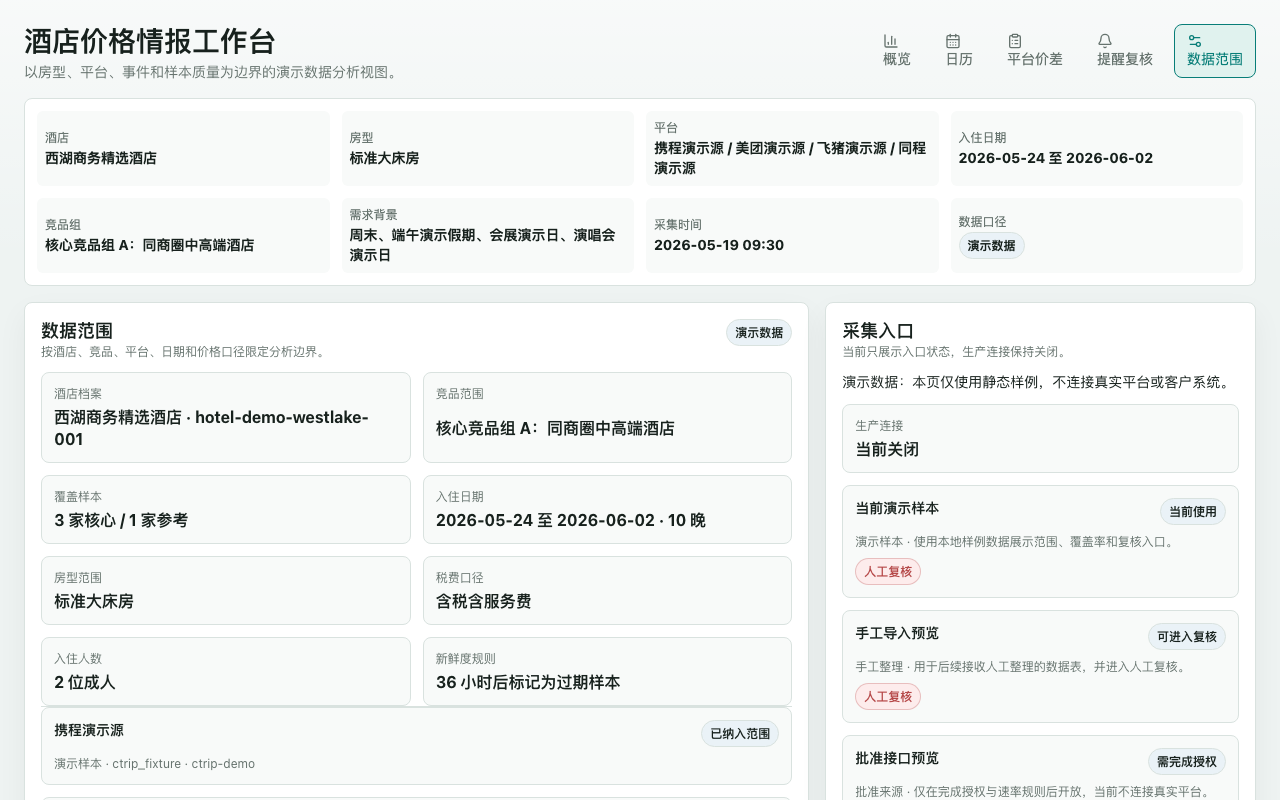
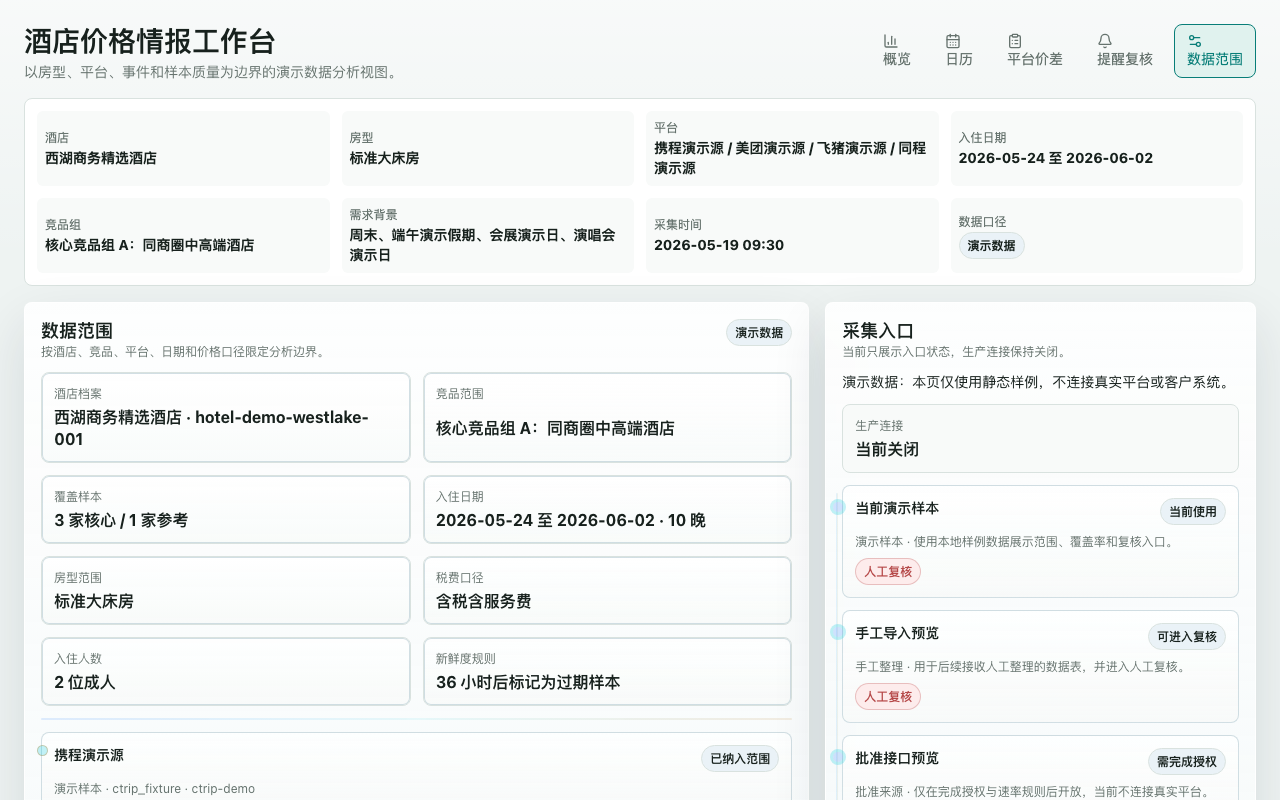
feat: apply revenue observatory setup styling

Changed region(s): [[0.0312, 0.875, 0.6562, 1.0], [0.625, 0.7812, 0.6562, 0.8125], [0.625, 0.625, 0.6562, 0.6562]]

diff --git a/app/src/screens/SetupDataScopeScreen.tsx b/app/src/screens/SetupDataScopeScreen.tsx
@@ -36,8 +36,8 @@ export function SetupDataScopeScreen({ dataset }: SetupDataScopeScreenProps) {
   ] as const;
 
   return (
-    <section className="screen-grid screen-grid--two">
-      <div className="panel">
+    <section className="screen-grid screen-grid--two setup-observatory" data-visual-system="revenue-observatory">
+      <div className="panel observatory-glass-panel">
         <div className="panel__header">
           <div>
             <h2 className="panel__title">数据范围</h2>
@@ -45,30 +45,32 @@ export function SetupDataScopeScreen({ dataset }: SetupDataScopeScreenProps) {
           </div>
           <span className="demo-badge">演示数据</span>
         </div>
-        <div className="scope-grid">
-          {scopeItems.map(([label, value]) => (
-            <div className="setup-item" key={label}>
-              <span className="meta-label">{label}</span>
-              <strong>{value}</strong>
-            </div>
-          ))}
-        </div>
-        <div className="divider" />
-        <div className="platform-scope-list">
-          {dataScope.platforms.map((platform) => (
-            <div className="platform-scope-row" key={platform.sourceId}>
-              <div className="platform-scope-row__top">
-                <strong>{platform.label}</strong>
-                <span className="status-chip">{platform.enabled ? '已纳入范围' : '未启用'}</span>
+        <div className="scope-observatory-map" aria-label="数据范围观测图">
+          <div className="scope-grid">
+            {scopeItems.map(([label, value]) => (
+              <div className="setup-item scope-metric-cell" key={label}>
+                <span className="meta-label">{label}</span>
+                <strong>{value}</strong>
               </div>
-              <p className="panel__meta">
-                {sourceKindLabel[platform.sourceKind]} · {platform.channel} · {platform.sourceId}
-              </p>
-            </div>
-          ))}
+            ))}
+          </div>
+          <div className="scope-signal-axis" aria-hidden="true" />
+          <div className="platform-scope-list">
+            {dataScope.platforms.map((platform) => (
+              <div className="platform-scope-row scope-orbit-node" key={platform.sourceId}>
+                <div className="platform-scope-row__top">
+                  <strong>{platform.label}</strong>
+                  <span className="status-chip">{platform.enabled ? '已纳入范围' : '未启用'}</span>
+                </div>
+                <p className="panel__meta">
+                  {sourceKindLabel[platform.sourceKind]} · {platform.channel} · {platform.sourceId}
+                </p>
+              </div>
+            ))}
+          </div>
         </div>
       </div>
-      <aside className="panel">
+      <aside className="panel observatory-glass-panel">
         <div className="panel__header">
           <div>
             <h2 className="panel__title">采集入口</h2>
@@ -81,7 +83,7 @@ export function SetupDataScopeScreen({ dataset }: SetupDataScopeScreenProps) {
             <span className="meta-label">生产连接</span>
             <strong>{captureEntry.productionConnectionEnabled ? '已开启' : '当前关闭'}</strong>
           </div>
-          <div className="capture-entry-list">
+          <div className="capture-entry-list capture-signal-rail">
             {captureEntry.options.map((option) => (
               <div className="capture-entry-row" key={option.id}>
                 <div className="capture-entry-row__top">

diff --git a/app/src/styles/layout.css b/app/src/styles/layout.css
@@ -639,6 +639,46 @@
   grid-template-columns: repeat(2, minmax(0, 1fr));
 }
 
+[data-visual-system="revenue-observatory"] {
+  position: relative;
+}
+
+[data-visual-system="revenue-observatory"]::before {
+  position: absolute;
+  inset: -10px;
+  z-index: -1;
+  border-radius: var(--radius-panel);
+  background-image:
+    linear-gradient(var(--observatory-grid-line) 1px, transparent 1px),
+    linear-gradient(90deg, var(--observatory-grid-line) 1px, transparent 1px),
+    var(--observatory-track-surface);
+  background-size: 40px 40px, 40px 40px, auto;
+  content: "";
+}
+
+.observatory-glass-panel {
+  border-color: var(--observatory-glass-border);
+  background: var(--observatory-glass-surface);
+  box-shadow: var(--observatory-shadow);
+  backdrop-filter: blur(18px);
+}
+
+.scope-observatory-map {
+  display: grid;
+  gap: var(--space-12);
+}
+
+.scope-metric-cell {
+  background: var(--observatory-node-surface);
+  box-shadow: inset 0 0 0 1px var(--observatory-inset-line);
+}
+
+.scope-signal-axis {
+  height: 2px;
+  border-radius: var(--radius-pill);
+  background: var(--observatory-track-surface);
+}
+
 .capture-entry-row,
 .platform-scope-row {
   display: grid;
@@ -647,7 +687,56 @@
   padding: var(--space-12);
   border: var(--border-width) solid var(--color-line);
   border-radius: var(--radius-panel);
-  background: var(--color-surface-raised);
+  background: var(--observatory-node-surface);
+}
+
+.scope-orbit-node {
+  position: relative;
+  border-color: var(--observatory-inset-line);
+}
+
+.scope-orbit-node::before {
+  position: absolute;
+  top: var(--space-12);
+  left: -5px;
+  width: 9px;
+  height: 9px;
+  border: var(--border-width) solid var(--observatory-copper-accent);
+  border-radius: var(--radius-pill);
+  background: var(--observatory-cyan-signal);
+  content: "";
+}
+
+.capture-signal-rail {
+  position: relative;
+}
+
+.capture-signal-rail::before {
+  position: absolute;
+  top: var(--space-8);
+  bottom: var(--space-8);
+  left: -6px;
+  width: 2px;
+  border-radius: var(--radius-pill);
+  background: var(--observatory-track-surface);
+  content: "";
+}
+
+.capture-entry-row {
+  position: relative;
+  border-color: var(--observatory-inset-line);
+}
+
+.capture-entry-row::before {
+  position: absolute;
+  top: var(--space-16);
+  left: -10px;
+  width: 10px;
+  height: 10px;
+  border-radius: var(--radius-pill);
+  background: var(--observatory-blue-signal);
+  box-shadow: 0 0 0 3px var(--observatory-cyan-signal);
+  content: "";
 }
 
 .capture-entry-row__top,

diff --git a/app/src/styles/tokens.css b/app/src/styles/tokens.css
@@ -52,6 +52,16 @@
   --border-teal-soft: rgba(8, 126, 120, 0.2);
   --heatmap-teal-alpha: rgba(8, 126, 120, calc(var(--heat) * 0.28));
   --border-amber-strong: rgba(184, 117, 26, 0.5);
+  --observatory-glass-surface: linear-gradient(180deg, rgba(255, 255, 255, 0.9), rgba(248, 252, 253, 0.76));
+  --observatory-glass-border: rgba(255, 255, 255, 0.92);
+  --observatory-grid-line: rgba(13, 37, 54, 0.075);
+  --observatory-cyan-signal: rgba(0, 200, 220, 0.24);
+  --observatory-blue-signal: rgba(10, 108, 255, 0.18);
+  --observatory-copper-accent: rgba(184, 117, 26, 0.32);
+  --observatory-track-surface: linear-gradient(90deg, rgba(10, 108, 255, 0.12), rgba(0, 200, 220, 0.08), rgba(184, 117, 26, 0.12));
+  --observatory-node-surface: linear-gradient(180deg, rgba(255, 255, 255, 0.82), rgba(248, 250, 249, 0.72));
+  --observatory-shadow: 0 22px 54px rgba(16, 36, 48, 0.12);
+  --observatory-inset-line: rgba(169, 194, 203, 0.52);
   color: var(--color-ink);
   background: var(--color-bg);
   font-family: Inter, ui-sans-serif, system-ui, -apple-system, BlinkMacSystemFont, "Segoe UI", sans-serif;

diff --git a/app/tests/components/setupDataScopeScreen.test.tsx b/app/tests/components/setupDataScopeScreen.test.tsx
@@ -21,4 +21,14 @@ describe('SetupDataScopeScreen', () => {
     const visibleText = document.body.textContent ?? '';
     expect(visibleText).not.toMatch(/自动调价|自动改价|cookie|token|crawler|scraper|captcha|recommendedPrice/i);
   });
+
+  it('exposes the Revenue Observatory visual structure for data scope review', () => {
+    const { container } = render(<SetupDataScopeScreen dataset={demoDataset} />);
+
+    expect(container.querySelector('[data-visual-system="revenue-observatory"]')).not.toBeNull();
+    expect(container.querySelector('.scope-observatory-map')).not.toBeNull();
+    expect(container.querySelector('.capture-signal-rail')).not.toBeNull();
+    expect(container.querySelectorAll('.observatory-glass-panel').length).toBeGreaterThanOrEqual(2);
+    expect(container.querySelectorAll('.scope-orbit-node').length).toBeGreaterThanOrEqual(4);
+  });
 });

diff --git a/app/tests/contract/tokens.test.ts b/app/tests/contract/tokens.test.ts
@@ -41,4 +41,14 @@ describe('F-006 token contract', () => {
   it('does not define raw color functions outside the token layer', () => {
     expect(layoutCss).not.toMatch(/rgba?\(/);
   });
+
+  it('defines Revenue Observatory surfaces through token-layer variables', () => {
+    expect(css).toContain('--observatory-glass-surface:');
+    expect(css).toContain('--observatory-grid-line:');
+    expect(css).toContain('--observatory-cyan-signal:');
+    expect(css).toContain('--observatory-copper-accent:');
+    expect(layoutCss).toContain('data-visual-system="revenue-observatory"');
+    expect(layoutCss).toContain('scope-observatory-map');
+    expect(layoutCss).toContain('capture-signal-rail');
+  });
 });
